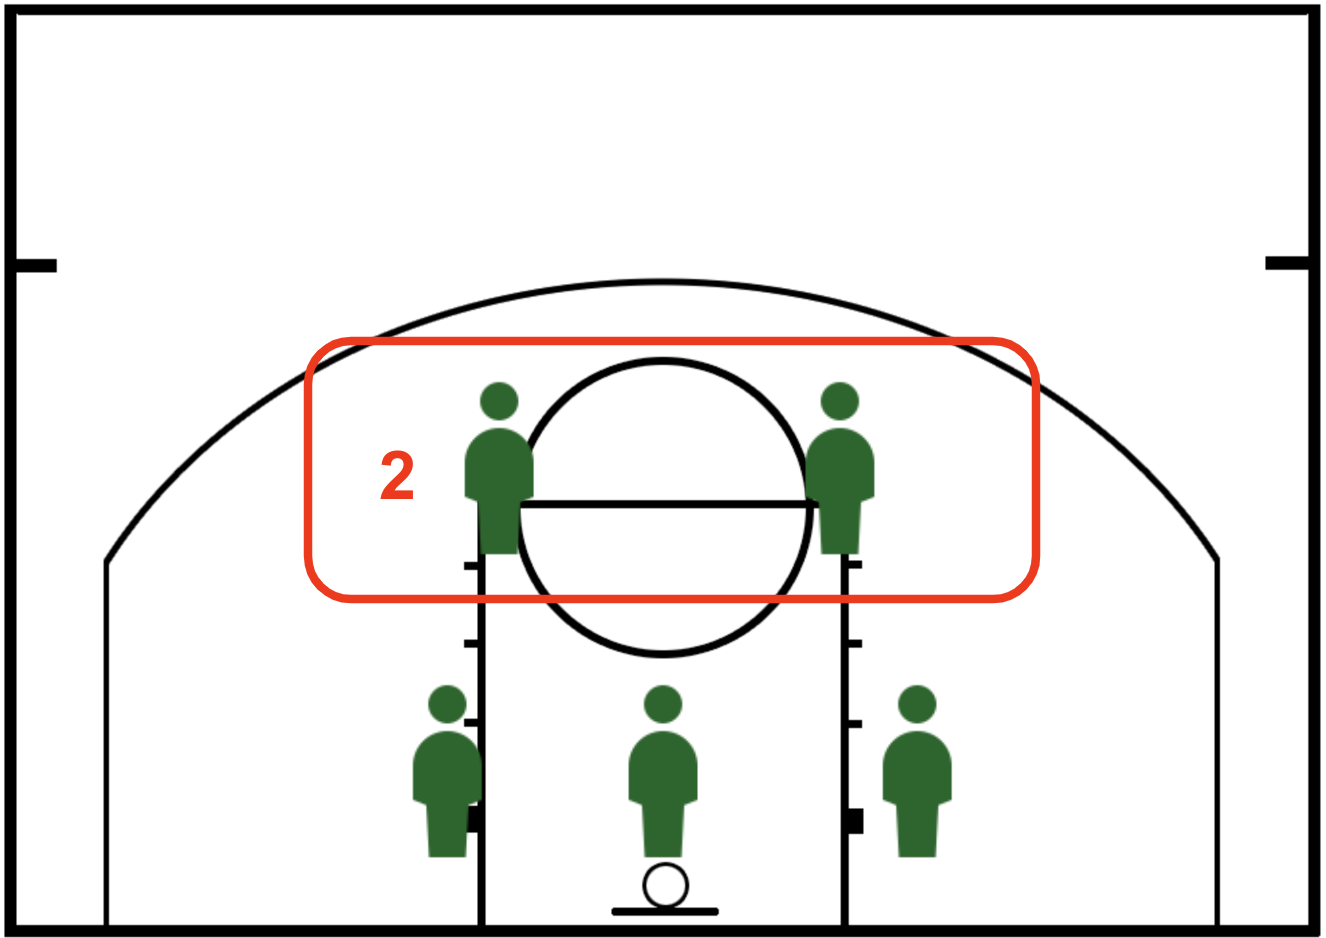
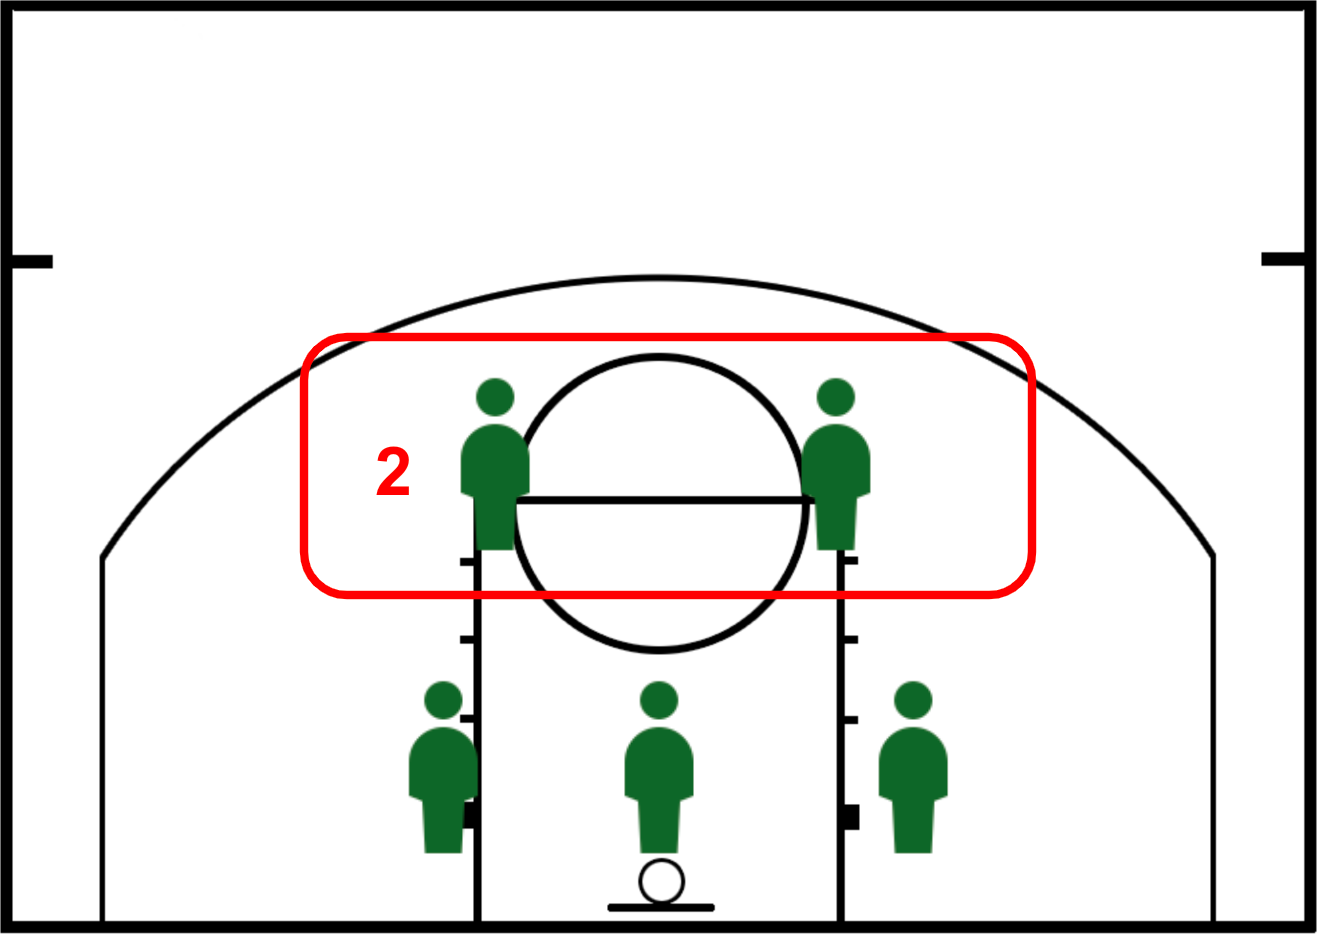
Adjust UI for setup

diff --git a/templates/combined_setup.html b/templates/combined_setup.html
@@ -28,13 +28,21 @@
             background-color: #0056b3; /* Darker blue on hover for visual feedback */
         }
 
+        .content-container {
+            display: flex;
+            justify-content: space-between;
+            align-items: start;
+            width: 100%;
+            margin-top: -20px;
+        }
+
 
     </style>
     <script src="{{ url_for('static', filename='basketball.js') }}"></script>
 {% endblock %}
 
 {% block content %}
-    <div class="lesson-container">
+    <div class="setup-container">
         <!-- 2-3 Zone Setup Section -->
         <section id="two-three-zone-setup" class="setup-section">
             <h2>Let’s start with the basics: 2-3 Zone Setup</h2>
@@ -49,10 +57,20 @@
                     <li>The middle player plays in front of the basket protecting the paint and being vigilant defending against cuts, post-ups, and rebounds</li>
                 </ul>
             </ul>
-            <div id="imagesblock" style="position: relative;">
-                <img src="{{ url_for('static', filename='2-3_Zone_Setup_Defen.png') }}" alt="2-3 Zone Setup" class="setup-image img-fluid" id="first-image">
-                <img src="{{ url_for('static', filename='2-3_Zone_Setup_Defen_2.png') }}" alt="2-3 Zone Setup 2" class="setup-image img-fluid" id="second-image" style="display: none;">
-                <button id="next-button" style="position: absolute; right: 0; bottom: 0;">Next</button>
+
+            <div class="content-container">
+                <div id="legend">
+                    <h3>LEGEND</h3>
+                    <p><img src="static/red_person.png" alt="Offensive Player" class="offensive-player-img"> Offensive Player</p>
+                    <p><img src="static/green_person.png" alt="Defensive Player" class="defensive-player-img"> Defensive Player</p>
+                    <p><img src="static/previous_person.png" alt="Previous Player" class="previous-player-img"> Previous Position</p>
+                    <p><img src="static/player_movement.png" alt="Player Movement" class="player-movement-img"> Previous Movement</p>
+                </div>
+                <div id="imagesblock" style="position: relative;">
+                    <img src="{{ url_for('static', filename='2-3_Zone_Setup_Defen.png') }}" alt="2-3 Zone Setup" class="setup-image img-fluid" id="first-image">
+                    <img src="{{ url_for('static', filename='2-3_Zone_Setup_Defen_2.png') }}" alt="2-3 Zone Setup 2" class="setup-image img-fluid" id="second-image" style="display: none;">
+                    <button id="next-button" style="position: absolute; right: 0; bottom: 0;">Next</button>
+                </div>
             </div>
 
 
@@ -61,7 +79,7 @@
         <!-- Offensive Setup Section -->
         <section id="offensive-setup" class="setup-section">
             <h2>Offensive Setup</h2>
-            <P>Now let’s add 5 offensive players, we can start with one of the most common offensive setups, with five players on the outside of the three-point line!</P>
+            Now let’s add 5 offensive players, we can start with one of the most common offensive setups, with five players on the outside of the three-point line!
             <ul>
                 <li><strong>(PG) Point Guard:</strong> Directs the team's offense and distributes the ball from the top of the key.</li>
                 <li><strong>(LW) Left Wing:</strong>  Stretches the defense laterally and provides options for perimeter shooting.</li>
@@ -70,24 +88,20 @@
                 <li><strong>(RB) Right Base:</strong>  Helps in balancing the court and can quickly move to score from the corners.</li>
             </ul>
 
-
-            <div id="imagesblock">
-                <img src="{{ url_for('static', filename='2-3_Zone_Setup_Offen.png') }}" alt="Offensive Setup" class="setup-image img-fluid">
+            <div class="content-container">
+                <div id="legend">
+                    <h3>LEGEND</h3>
+                    <p><img src="static/red_person.png" alt="Offensive Player" class="offensive-player-img"> Offensive Player</p>
+                    <p><img src="static/green_person.png" alt="Defensive Player" class="defensive-player-img"> Defensive Player</p>
+                    <p><img src="static/previous_person.png" alt="Previous Player" class="previous-player-img"> Previous Position</p>
+                    <p><img src="static/player_movement.png" alt="Player Movement" class="player-movement-img"> Previous Movement</p>
+                </div>
+                <div id="imagesblock" style="position: relative;">
+                    <img src="{{ url_for('static', filename='2-3_Zone_Setup_Offen.png') }}" alt="Offensive Setup" class="setup-image img-fluid">
+                </div>
             </div>
-
         </section>
 
-        <div id="legend">
-            <h3>LEGEND</h3>
-            <div class="legend-item">
-                <span class="legend-color defensive-player-image"></span>
-                Defensive Player
-            </div>
-            <div class="legend-item">
-                <span class="legend-color offensive-player-image"></span>
-                Offensive Player
-            </div>
-        </div>
     </div>
 {% endblock %}
 

diff --git a/static/main.css b/static/main.css
@@ -80,9 +80,9 @@
     font-size: 20px; /* Adjust font size as needed */
 }
 
-#legend {
-    margin-top: 10px;
-}
+/*#legend {*/
+/*    margin-top: 10px;*/
+/*}*/
 
 #court-container {
     display: flex;
@@ -92,6 +92,10 @@
     flex: 0 0 auto; /* Ensure the legend doesn't grow or shrink */
     margin-right: 20px; /* Adjust the spacing between the legend and the basketball court */
     margin-top: 150px;
+    padding: 10px;
+    border-radius: 5px;
+    font-size: 14px;
+    color: #212529;
 }
 
 #basketball-court {
@@ -139,13 +143,6 @@
     color: #000000 !important; /* Force text color to black */
 }
 
-.setup-container {
-    display: flex;
-    justify-content: center;
-    align-items: flex-start;
-    margin-top: 20px;
-}
-
 .setup-section {
     display: none;
 }
@@ -157,48 +154,26 @@
 
 .setup-image {
     display: block;
-    max-width: 400px;
+    max-width: 66%;
     height: auto;
     margin-bottom: 20px;
 }
 
 
-#legend {
-    margin-top: 10px;
-    padding: 10px;
-    border-radius: 5px;
-    font-size: 14px;
-    color: #212529;
-}
+/*#legend {*/
+/*    margin-top: 0px;*/
+/*    padding: 10px;*/
+/*    border-radius: 5px;*/
+/*    font-size: 14px;*/
+/*    color: #212529;*/
+/*}*/
 
-.legend-item {
-    display: flex;
-    align-items: center;
-    margin-bottom: 5px;
-}
-
-.legend-color {
-    width: 20px;
-    height: 20px;
-    display: inline-block;
-    margin-right: 10px;
-    background-size: cover;
-    background-repeat: no-repeat;
-}
-
-
-.offensive-player {
-    background-color: red;
-}
-
-.defensive-player {
-    background-color: green;
-}
 
 #imagesblock {
-    display: flex; /* Ensure images are displayed in a row */
+    display: grid;/* Ensure images are displayed in a row */
     justify-content: center; /* Center align images horizontally */
     align-items: flex-start; /* Align images to the top */
     margin-right: 10px;
+    margin-top: 20px;
 }
 

diff --git a/templates/layout.html b/templates/layout.html
@@ -32,10 +32,10 @@
     <!-- Lesson-specific Navigation -->
     <nav class="navbar navbar-expand-lg navbar-light bg-light">
         <div class="container">
-            <a class="nav-item nav-link text-dark" href="/combined-setup" id="nav-zone-setup">2-3 Zone Setup</a>
+            <a class="nav-item nav-link text-dark" href="/combined-setup" id="nav-zone-setup">A. 2-3 Zone Setup</a>
             <a class="nav-item nav-link text-dark" href="/combined-setup#offensive-setup"
-                id="nav-offensive-setup">Offensive Setup</a>
-            <a class="nav-item nav-link text-dark" href="/lesson" id="nav-lesson">Ball Passing Demo</a>
+                id="nav-offensive-setup">B. Offensive Setup</a>
+            <a class="nav-item nav-link text-dark" href="/lesson" id="nav-lesson">C. Ball Passing Demo</a>
         </div>
     </nav>
 
